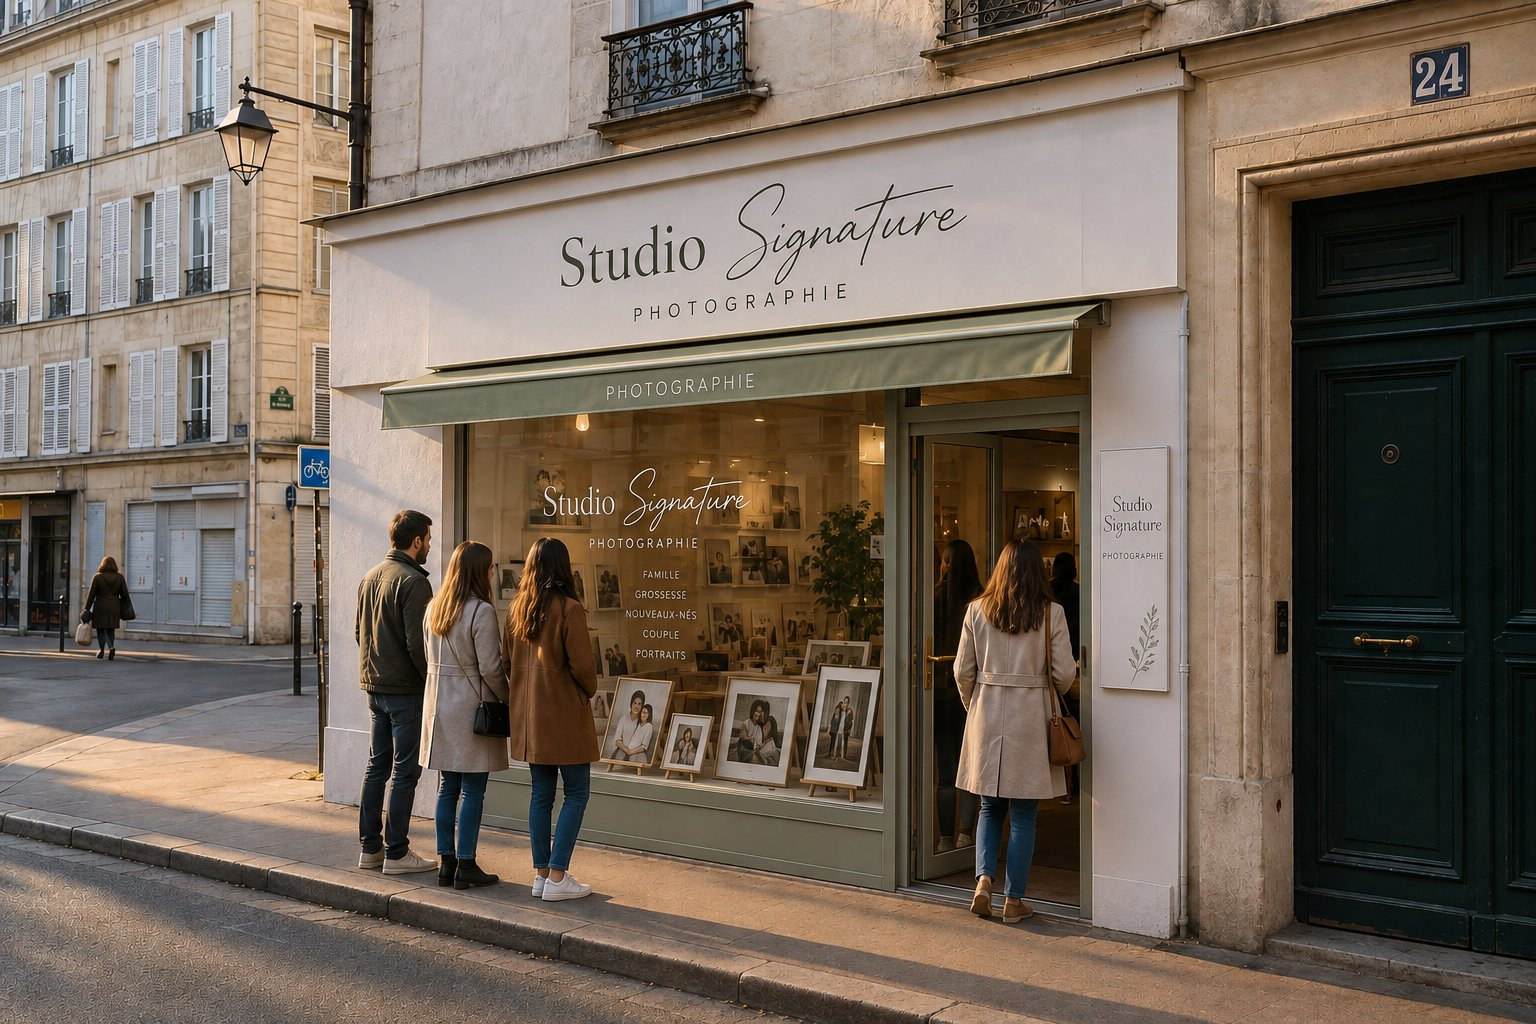
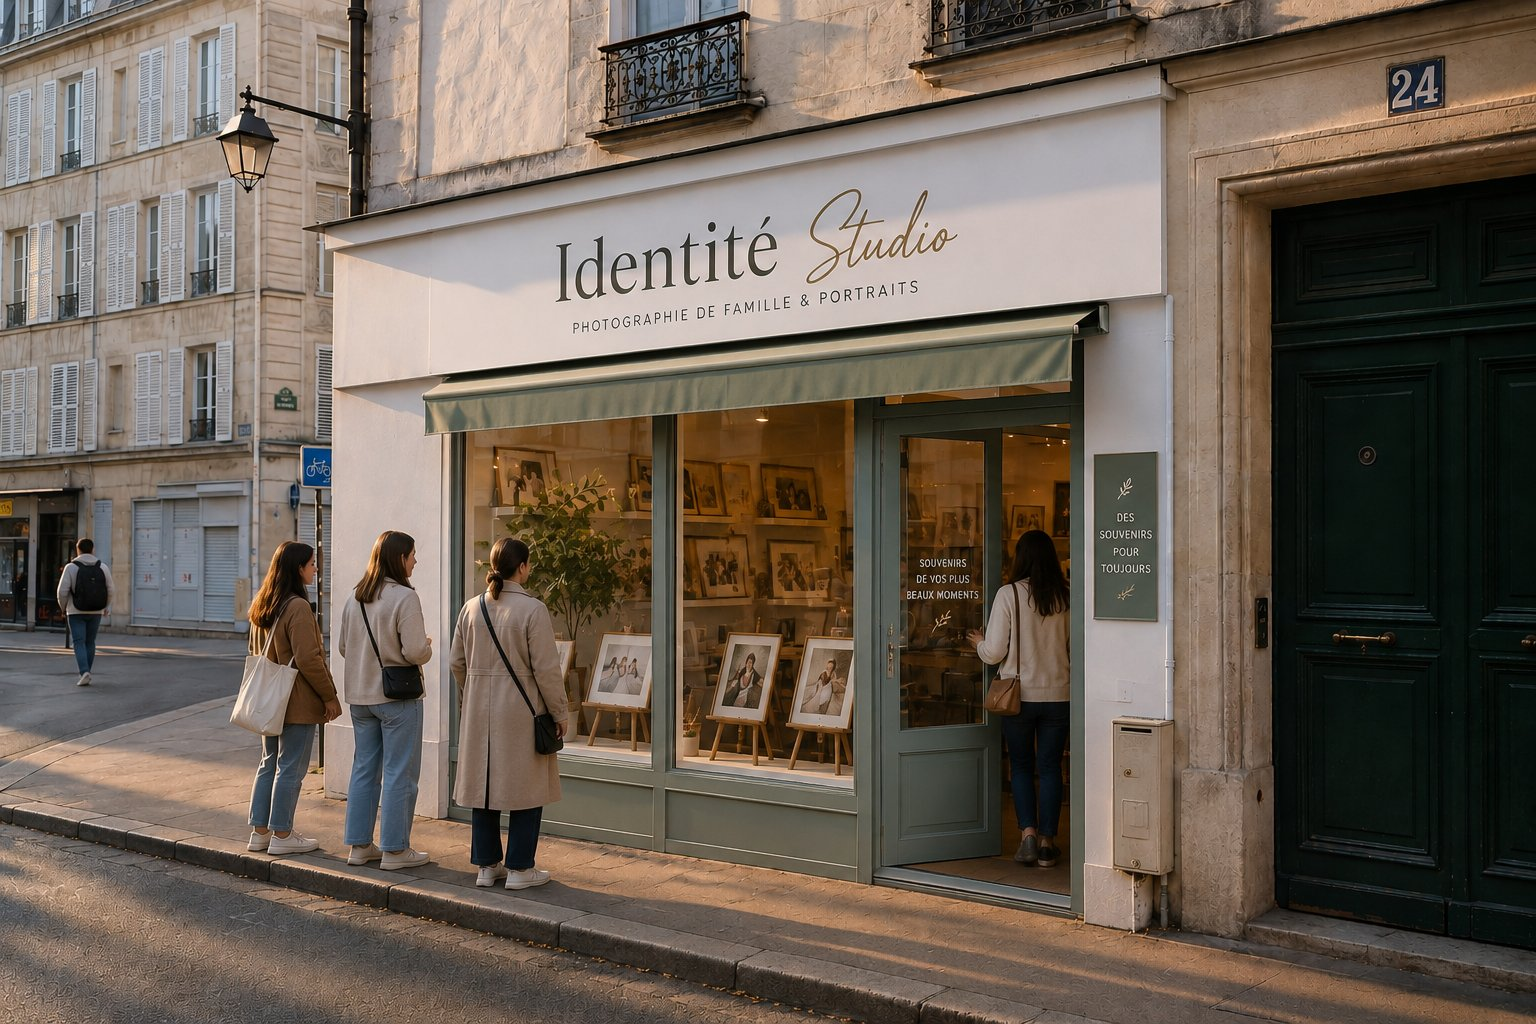
Rebrand vers Identite Studio (contenu + photos)

diff --git a/public/index.html b/public/index.html
@@ -3,8 +3,8 @@
 <head>
 <meta charset="UTF-8">
 <meta name="viewport" content="width=device-width, initial-scale=1.0">
-<title>Studio Signature — identité visuelle pour commerces et artisans</title>
-<meta name="description" content="Studio Signature construit l'identité visuelle, le site et les supports physiques des commerçants et artisans qui veulent qu'on se souvienne d'eux.">
+<title>Identité Studio — identité visuelle pour commerces et artisans</title>
+<meta name="description" content="Identité Studio construit l'identité visuelle, le site et les supports physiques des commerçants et artisans qui veulent qu'on se souvienne d'eux.">
 <link rel="preconnect" href="https://fonts.googleapis.com">
 <link rel="preconnect" href="https://fonts.gstatic.com" crossorigin>
 <link href="https://fonts.googleapis.com/css2?family=Fraunces:ital,opsz,wght@0,9..144,400;0,9..144,500;1,9..144,500&family=Inter:wght@400;500;600&display=swap" rel="stylesheet">
@@ -16,7 +16,7 @@
   <div class="wrap header-inner">
     <a class="logo" href="index.html">
       <svg class="logo-mark" viewBox="0 0 32 32" fill="none"><circle cx="16" cy="16" r="12" stroke="currentColor" stroke-width="1.2"/><circle cx="16" cy="16" r="2" fill="currentColor"/></svg>
-      <span>Studio<em class="logo-studio">signature</em></span>
+      <span>Identité<em class="logo-studio">studio</em></span>
     </a>
     <nav class="nav-links" id="navLinks">
       <a href="#studio">Studio</a>
@@ -39,7 +39,7 @@
     <div class="hero-text reveal">
       <p class="eyebrow">Studio d'identité — commerces &amp; artisans</p>
       <h1>Vous voulez vous différencier ?<br><em>Nous construisons ce qui vous rend reconnaissable.</em></h1>
-      <p class="lede">Studio Signature construit l'identité visuelle, le site et les supports physiques des commerçants et artisans qui veulent qu'on se souvienne d'eux.</p>
+      <p class="lede">Identité Studio construit l'identité visuelle, le site et les supports physiques des commerçants et artisans qui veulent qu'on se souvienne d'eux.</p>
       <div class="hero-actions">
         <a class="btn-fill" href="contact.html">Discuter du projet</a>
         <a class="link-underline" href="#realisations">Voir le travail →</a>
@@ -127,10 +127,10 @@
       <p class="lede reveal" style="transition-delay:.05s">Faites glisser pour voir la différence.</p>
       <div class="ba-slider reveal" style="transition-delay:.1s">
         <div class="ba-layer ba-after">
-          <img src="images/devanture-apres.jpg" alt="Devanture de la boutique Studio Signature avec identité visuelle travaillée" loading="lazy">
+          <img src="images/devanture-apres.jpg" alt="Devanture de la boutique Identité Studio avec identité visuelle travaillée" loading="lazy">
         </div>
         <div class="ba-layer ba-before" id="baBefore">
-          <img src="images/devanture-avant.jpg" alt="Devanture de la boutique Studio Signature sans identité visuelle" loading="lazy">
+          <img src="images/devanture-avant.jpg" alt="Devanture de la boutique Identité Studio sans identité visuelle" loading="lazy">
         </div>
         <span class="ba-badge left">Sans identité</span>
         <span class="ba-badge right">Avec identité</span>
@@ -217,7 +217,7 @@
 
 <footer class="site-footer">
   <div class="wrap footer-inner">
-    <span>© Studio Signature</span>
+    <span>© Identité Studio</span>
     <nav class="footer-legal">
       <a href="mentions-legales.html">Mentions légales</a>
       <a href="confidentialite.html">Confidentialité</a>

diff --git a/public/mentions-legales.html b/public/mentions-legales.html
@@ -3,7 +3,7 @@
 <head>
 <meta charset="UTF-8">
 <meta name="viewport" content="width=device-width, initial-scale=1.0">
-<title>Mentions légales — Studio Signature</title>
+<title>Mentions légales — Identité Studio</title>
 <link rel="preconnect" href="https://fonts.googleapis.com">
 <link rel="preconnect" href="https://fonts.gstatic.com" crossorigin>
 <link href="https://fonts.googleapis.com/css2?family=Fraunces:ital,opsz,wght@0,9..144,400;0,9..144,500;1,9..144,500&family=Inter:wght@400;500;600&display=swap" rel="stylesheet">
@@ -15,7 +15,7 @@
   <div class="wrap header-inner">
     <a class="logo" href="index.html">
       <svg class="logo-mark" viewBox="0 0 32 32" fill="none"><circle cx="16" cy="16" r="12" stroke="currentColor" stroke-width="1.2"/><circle cx="16" cy="16" r="2" fill="currentColor"/></svg>
-      <span>Studio<em class="logo-studio">signature</em></span>
+      <span>Identité<em class="logo-studio">studio</em></span>
     </a>
     <nav class="nav-links" id="navLinks">
       <a href="index.html#studio">Studio</a>
@@ -39,14 +39,14 @@
       <h1>Mentions légales</h1>
 
       <h3>Éditeur du site</h3>
-      <p>Le site Studio Signature est actuellement un projet en cours de constitution. Les informations d'immatriculation (statut juridique, numéro SIRET, adresse du siège) seront ajoutées ici dès l'enregistrement officiel de l'activité.</p>
+      <p>Le site Identité Studio est actuellement un projet en cours de constitution. Les informations d'immatriculation (statut juridique, numéro SIRET, adresse du siège) seront ajoutées ici dès l'enregistrement officiel de l'activité.</p>
       <p>Responsable du contenu : Jules Pigner<br>Contact : <a class="link-underline" href="mailto:pignerjules@gmail.com">pignerjules@gmail.com</a></p>
 
       <h3>Hébergement</h3>
       <p>Ce site est hébergé par :<br>Railway Corporation<br>548 Market St PMB 68956<br>San Francisco, CA 94104, États-Unis<br><a class="link-underline" href="https://railway.com" target="_blank" rel="noopener">railway.com</a></p>
 
       <h3>Propriété intellectuelle</h3>
-      <p>L'ensemble des textes, éléments graphiques et de la charte visuelle de ce site sont la propriété de Studio Signature, sauf mention contraire. Toute reproduction sans autorisation préalable est interdite.</p>
+      <p>L'ensemble des textes, éléments graphiques et de la charte visuelle de ce site sont la propriété d'Identité Studio, sauf mention contraire. Toute reproduction sans autorisation préalable est interdite.</p>
 
       <h3>Crédits photo</h3>
       <p>Les photographies utilisées sur ce site proviennent de <a class="link-underline" href="https://www.pexels.com" target="_blank" rel="noopener">Pexels</a>, sous licence libre de droits.</p>
@@ -56,7 +56,7 @@
 
 <footer class="site-footer">
   <div class="wrap footer-inner">
-    <span>© Studio Signature</span>
+    <span>© Identité Studio</span>
     <nav class="footer-legal">
       <a href="mentions-legales.html">Mentions légales</a>
       <a href="confidentialite.html">Confidentialité</a>

diff --git a/public/contact.html b/public/contact.html
@@ -3,8 +3,8 @@
 <head>
 <meta charset="UTF-8">
 <meta name="viewport" content="width=device-width, initial-scale=1.0">
-<title>Contact — Studio Signature</title>
-<meta name="description" content="Prenez contact avec l'équipe Studio Signature pour un devis gratuit et sans engagement.">
+<title>Contact — Identité Studio</title>
+<meta name="description" content="Prenez contact avec l'équipe Identité Studio pour un devis gratuit et sans engagement.">
 <link rel="preconnect" href="https://fonts.googleapis.com">
 <link rel="preconnect" href="https://fonts.gstatic.com" crossorigin>
 <link href="https://fonts.googleapis.com/css2?family=Fraunces:ital,opsz,wght@0,9..144,400;0,9..144,500;1,9..144,500&family=Inter:wght@400;500;600&display=swap" rel="stylesheet">
@@ -16,7 +16,7 @@
   <div class="wrap header-inner">
     <a class="logo" href="index.html">
       <svg class="logo-mark" viewBox="0 0 32 32" fill="none"><circle cx="16" cy="16" r="12" stroke="currentColor" stroke-width="1.2"/><circle cx="16" cy="16" r="2" fill="currentColor"/></svg>
-      <span>Studio<em class="logo-studio">signature</em></span>
+      <span>Identité<em class="logo-studio">studio</em></span>
     </a>
     <nav class="nav-links" id="navLinks">
       <a href="index.html#studio">Studio</a>
@@ -66,7 +66,7 @@
 
 <footer class="site-footer">
   <div class="wrap footer-inner">
-    <span>© Studio Signature</span>
+    <span>© Identité Studio</span>
     <nav class="footer-legal">
       <a href="mentions-legales.html">Mentions légales</a>
       <a href="confidentialite.html">Confidentialité</a>

diff --git a/public/confidentialite.html b/public/confidentialite.html
@@ -3,7 +3,7 @@
 <head>
 <meta charset="UTF-8">
 <meta name="viewport" content="width=device-width, initial-scale=1.0">
-<title>Politique de confidentialité — Studio Signature</title>
+<title>Politique de confidentialité — Identité Studio</title>
 <link rel="preconnect" href="https://fonts.googleapis.com">
 <link rel="preconnect" href="https://fonts.gstatic.com" crossorigin>
 <link href="https://fonts.googleapis.com/css2?family=Fraunces:ital,opsz,wght@0,9..144,400;0,9..144,500;1,9..144,500&family=Inter:wght@400;500;600&display=swap" rel="stylesheet">
@@ -15,7 +15,7 @@
   <div class="wrap header-inner">
     <a class="logo" href="index.html">
       <svg class="logo-mark" viewBox="0 0 32 32" fill="none"><circle cx="16" cy="16" r="12" stroke="currentColor" stroke-width="1.2"/><circle cx="16" cy="16" r="2" fill="currentColor"/></svg>
-      <span>Studio<em class="logo-studio">signature</em></span>
+      <span>Identité<em class="logo-studio">studio</em></span>
     </a>
     <nav class="nav-links" id="navLinks">
       <a href="index.html#studio">Studio</a>
@@ -52,7 +52,7 @@
 
 <footer class="site-footer">
   <div class="wrap footer-inner">
-    <span>© Studio Signature</span>
+    <span>© Identité Studio</span>
     <nav class="footer-legal">
       <a href="mentions-legales.html">Mentions légales</a>
       <a href="confidentialite.html">Confidentialité</a>
